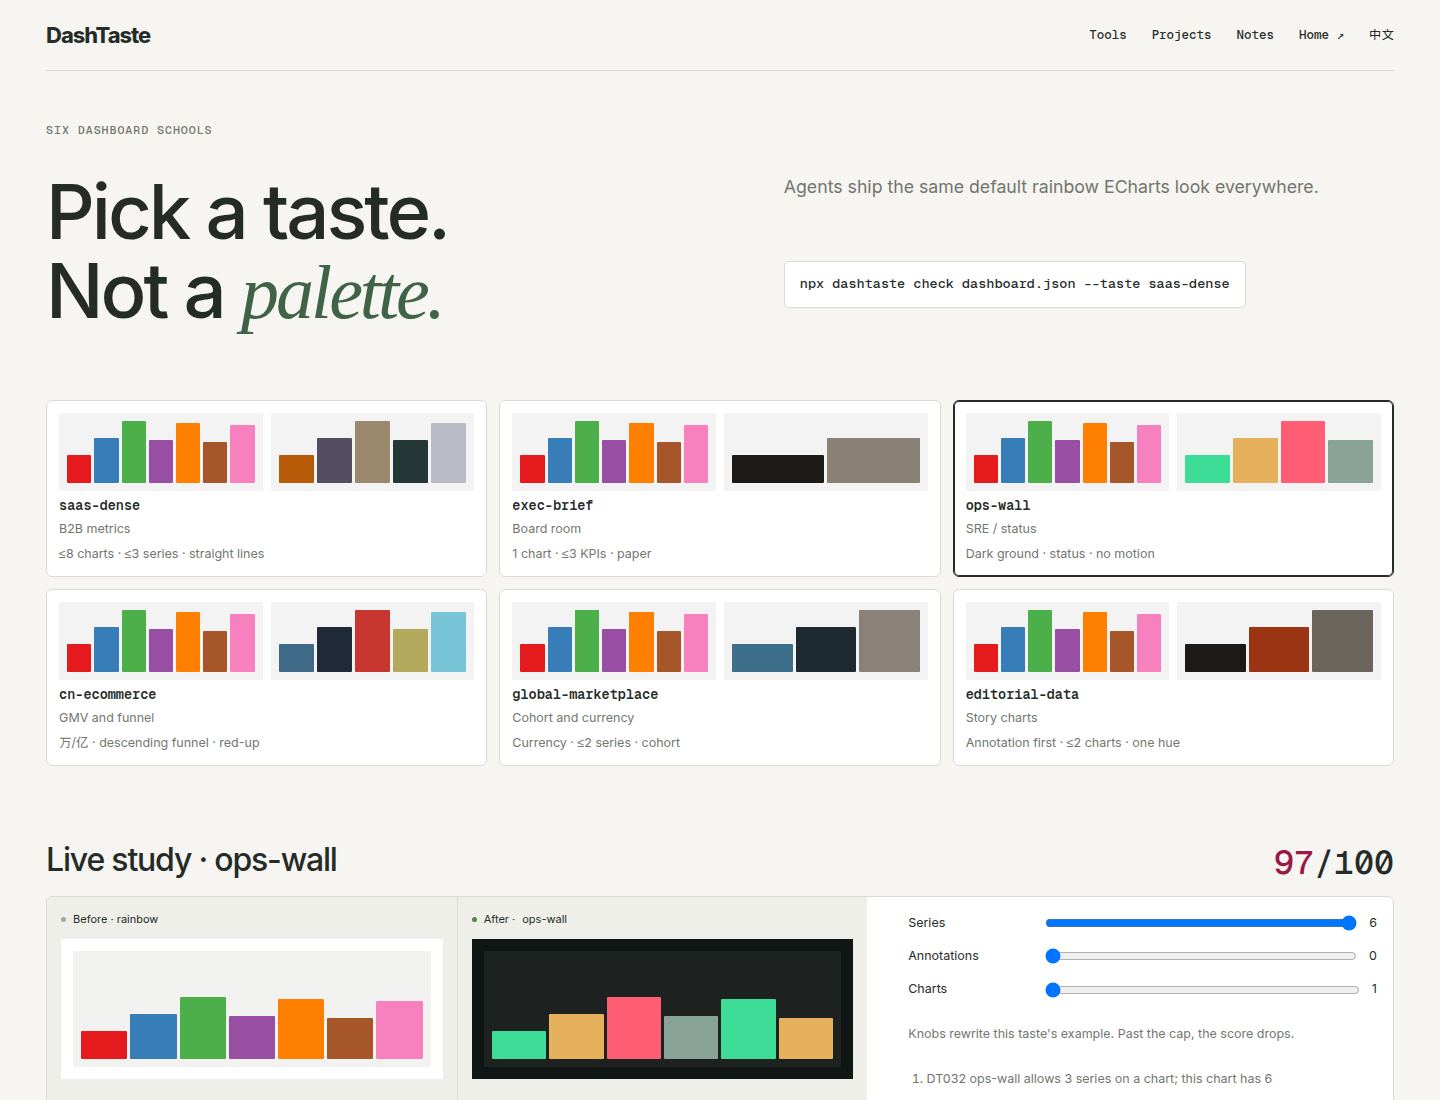
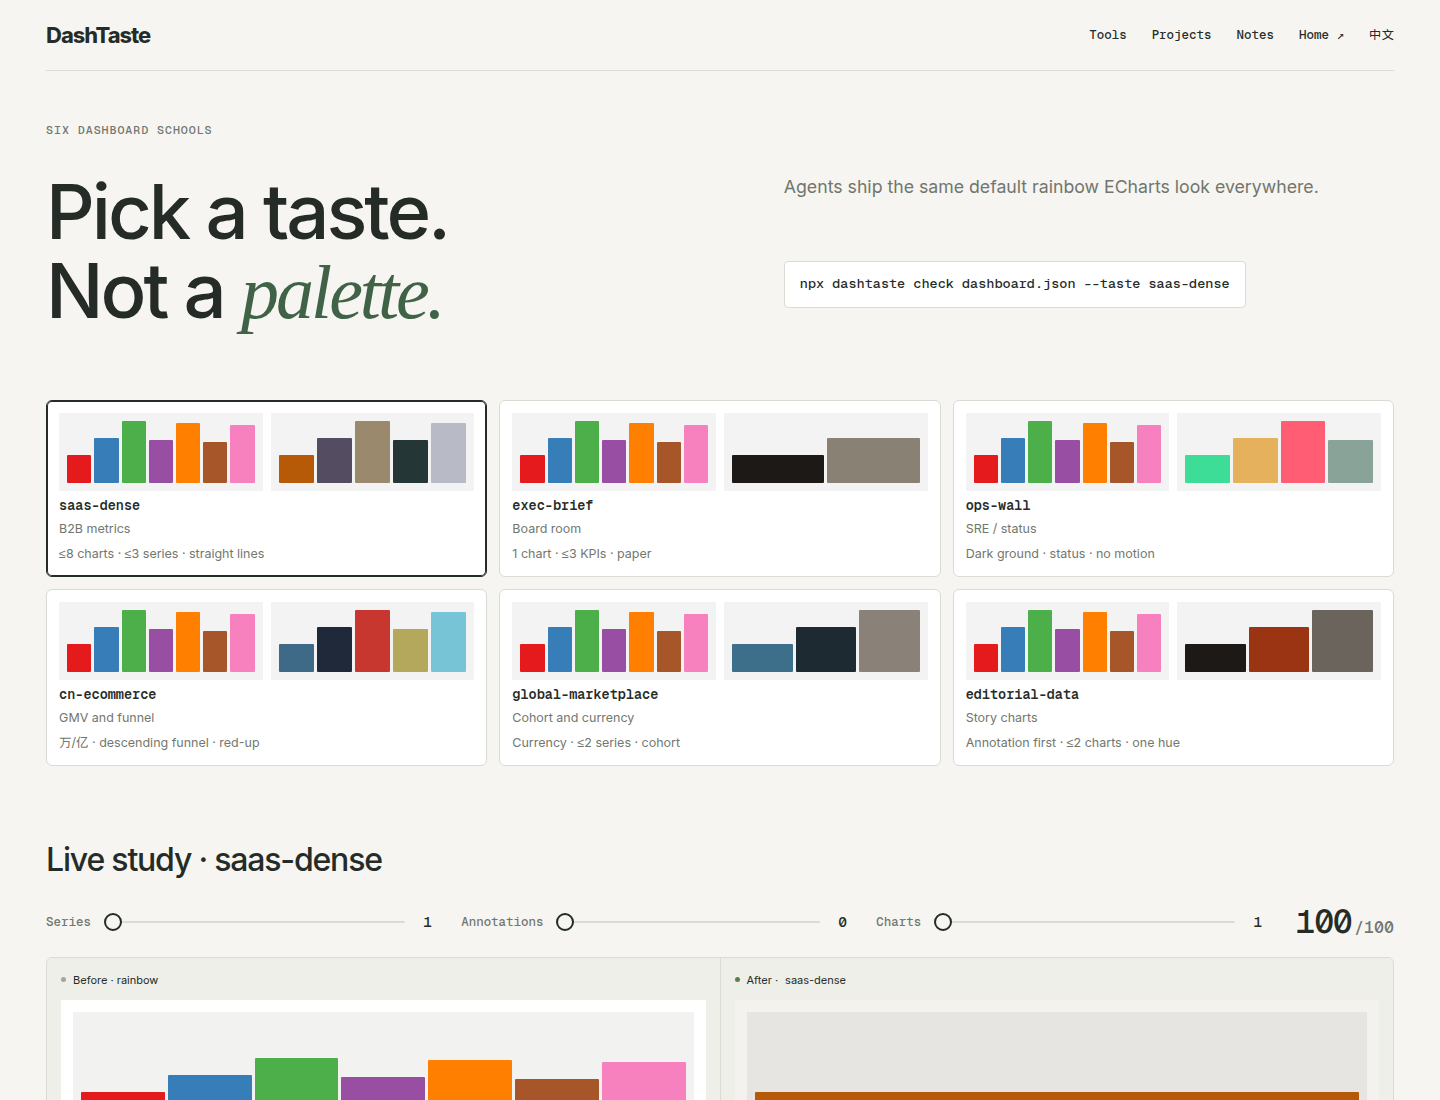
fix: align the showcase sliders with the score
Series, annotations, and charts share one row with the score. The helper sentence and finding list are gone. Each slider keeps a 44px hit area, a hairline track, and a tabular value.

Changed region(s): [[0.0312, 0.7727, 0.9688, 1.0], [0.1562, 0.7727, 0.2812, 0.8036]]

diff --git a/site/public/style.css b/site/public/style.css
@@ -754,24 +754,25 @@ header nav a {
     monospace;
 }
 .taste-school,
-.taste-chips,
-.knob-note {
+.taste-chips {
   color: var(--muted);
   font-size: 0.75rem;
 }
 .study {
   padding: 1.5rem 0 2.5rem;
 }
-.study-head,
-.study-grid {
+.study-head h2 {
+  margin: 0;
+}
+.study-controls {
   display: flex;
-  justify-content: space-between;
-  gap: 1.5rem;
-  align-items: flex-end;
+  align-items: center;
+  gap: 2rem;
+  margin-top: 1.25rem;
 }
 .study-grid {
-  align-items: stretch;
-  margin-top: 1rem;
+  display: block;
+  margin-top: 0.75rem;
   border: 1px solid var(--line);
   border-radius: 6px;
   overflow: hidden;
@@ -799,44 +800,120 @@ header nav a {
     monospace;
 }
 .knobs {
-  flex: 0.8;
+  flex: 1;
   display: grid;
-  align-content: start;
-  gap: 0.8rem;
-  padding: 16px;
+  grid-template-columns: repeat(3, minmax(0, 1fr));
+  gap: 1.75rem;
+  min-width: 0;
 }
-.knobs label {
+.knob {
   display: grid;
-  grid-template-columns: 7.5rem 1fr auto;
-  gap: 0.6rem;
+  grid-template-columns: auto minmax(4.5rem, 1fr) 2ch;
   align-items: center;
-  font-size: 0.75rem;
+  gap: 0.75rem;
+  min-height: 44px;
+  margin: 0;
+  color: var(--muted);
+  font:
+    500 0.75rem/1 Mono,
+    monospace;
+}
+.knob output {
+  color: var(--ink);
+  font:
+    500 0.875rem/1 Mono,
+    monospace;
+  font-variant-numeric: tabular-nums;
+  text-align: right;
+}
+.knob input[type='range'] {
+  -webkit-appearance: none;
+  appearance: none;
+  width: 100%;
+  height: 44px;
+  margin: 0;
+  background: transparent;
+  cursor: pointer;
+}
+.knob input[type='range']:focus {
+  outline: none;
+}
+.knob input[type='range']::-webkit-slider-runnable-track {
+  height: 2px;
+  border-radius: 1px;
+  background: linear-gradient(to right, var(--ink) var(--pct, 0%), var(--line) var(--pct, 0%));
+}
+.knob input[type='range']::-webkit-slider-thumb {
+  -webkit-appearance: none;
+  width: 18px;
+  height: 18px;
+  margin-top: -8px;
+  box-sizing: border-box;
+  border: 2px solid var(--ink);
+  border-radius: 50%;
+  background: var(--paper);
+}
+.knob input[type='range']:hover::-webkit-slider-thumb,
+.knob input[type='range']:active::-webkit-slider-thumb {
+  background: var(--ink);
+}
+.knob input[type='range']:focus-visible::-webkit-slider-thumb {
+  box-shadow: 0 0 0 4px rgba(37, 43, 39, 0.14);
+}
+.knob input[type='range']::-moz-range-track {
+  height: 2px;
+  border: 0;
+  border-radius: 1px;
+  background: linear-gradient(to right, var(--ink) var(--pct, 0%), var(--line) var(--pct, 0%));
+}
+.knob input[type='range']::-moz-range-thumb {
+  width: 18px;
+  height: 18px;
+  box-sizing: border-box;
+  border: 2px solid var(--ink);
+  border-radius: 50%;
+  background: var(--paper);
+}
+.knob input[type='range']:hover::-moz-range-thumb,
+.knob input[type='range']:active::-moz-range-thumb {
+  background: var(--ink);
 }
 .study-score {
+  display: flex;
+  align-items: baseline;
+  gap: 0.15rem;
+  flex: 0 0 auto;
   margin: 0;
   font:
     500 2rem/1 Mono,
     monospace;
+  font-variant-numeric: tabular-nums;
+  letter-spacing: -0.04em;
+}
+.study-score .score-total {
+  color: var(--muted);
+  font-size: 1rem;
+  letter-spacing: 0;
 }
 .study-score [data-low='true'] {
   color: #9b1745;
 }
-#study-findings {
-  margin: 0;
-  padding-left: 1.1rem;
-  color: var(--muted);
-  font-size: 0.75rem;
-}
 @media (max-width: 900px) {
   .catalog,
-  .study-grid,
   .pair-live,
-  .hero-copy {
+  .hero-copy,
+  .knobs {
     grid-template-columns: 1fr;
   }
-  .study-head,
-  .study-grid {
+  .study-controls {
     display: grid;
+    gap: 0.25rem;
+  }
+  .study-score {
+    justify-self: end;
+  }
+  .knobs {
+    gap: 0;
   }
 }
 @media (max-width: 760px) {

diff --git a/site/public/index.html b/site/public/index.html
@@ -43,7 +43,26 @@
       <section id="study" class="study" aria-labelledby="study-title">
         <div class="study-head">
           <h2 id="study-title">Live study · <span id="study-taste">saas-dense</span></h2>
-          <p class="study-score"><span id="score">—</span><span>/100</span></p>
+        </div>
+        <div class="study-controls">
+          <div class="knobs" role="group" aria-label="Specimen">
+            <label class="knob"
+              ><span>Series</span>
+              <input id="knob-series" type="range" min="1" max="6" step="1" value="1" />
+              <output id="out-series" for="knob-series">1</output></label
+            >
+            <label class="knob"
+              ><span>Annotations</span>
+              <input id="knob-notes" type="range" min="0" max="8" step="1" value="0" />
+              <output id="out-notes" for="knob-notes">0</output></label
+            >
+            <label class="knob"
+              ><span>Charts</span>
+              <input id="knob-charts" type="range" min="1" max="12" step="1" value="1" />
+              <output id="out-charts" for="knob-charts">1</output></label
+            >
+          </div>
+          <p class="study-score"><span id="score">—</span><span class="score-total">/100</span></p>
         </div>
         <div class="study-grid">
           <div class="pair-live">
@@ -57,27 +76,6 @@
               </figcaption>
               <div id="after-preview" class="preview"></div>
             </figure>
-          </div>
-          <div class="knobs">
-            <label
-              >Series
-              <input id="knob-series" type="range" min="1" max="6" step="1" value="1" />
-              <output id="out-series">1</output></label
-            >
-            <label
-              >Annotations
-              <input id="knob-notes" type="range" min="0" max="8" step="1" value="0" />
-              <output id="out-notes">0</output></label
-            >
-            <label
-              >Charts
-              <input id="knob-charts" type="range" min="1" max="12" step="1" value="1" />
-              <output id="out-charts">1</output></label
-            >
-            <p class="knob-note">
-              Knobs rewrite this taste's example. Past the cap, the score drops.
-            </p>
-            <ol id="study-findings"></ol>
           </div>
         </div>
       </section>

diff --git a/site/public/app.js b/site/public/app.js
@@ -165,6 +165,12 @@ try {
     $('out-series').textContent = String(knobs.series);
     $('out-notes').textContent = String(knobs.annotations);
     $('out-charts').textContent = String(knobs.charts);
+    for (const id of ['knob-series', 'knob-notes', 'knob-charts']) {
+      const input = $(id);
+      const span =
+        (Number(input.value) - Number(input.min)) / (Number(input.max) - Number(input.min));
+      input.style.setProperty('--pct', `${span * 100}%`);
+    }
     paint(
       $('before-preview'),
       { paper: '#ffffff', ink: '#1a1a18', series: rainbowColors },
@@ -183,13 +189,6 @@ try {
     const totals = summarize(findings);
     $('score').textContent = String(totals.score);
     $('score').dataset.low = String(totals.score < 100);
-    const list = $('study-findings');
-    list.replaceChildren();
-    for (const finding of findings.slice(0, 4)) {
-      const item = document.createElement('li');
-      item.textContent = `${finding.ruleId} ${finding.message}`;
-      list.append(item);
-    }
   };
   const select = (id) => {
     selected = id;
